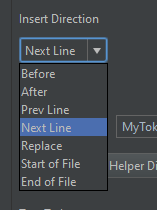
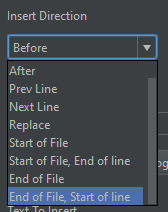
v0.4 part 4

diff --git a/_layouts/tutorial.html b/_layouts/tutorial.html
@@ -1,25 +1,13 @@
 ---
 layout: default
 ---
-{% assign tutorials = site.tutorials | where_exp:"item", "item.lang == page.lang" | sort: 'order' %}
-{% assign nextOrder = page.order | plus: 1 %}
-{% assign prevOrder = page.order | minus: 1 %}
-{% assign nextTutorial = tutorials | where:"order", nextOrder | first %}
-{% assign prevTutorial = tutorials | where:"order", prevOrder | first %}
+
 <h1>{{ page.title }}</h1>
 
 {{ content }}
 
-<br><hr>
-<!-- Предыдущий -->
+
 <div><div id="footerNavigation"div>
-{% if prevTutorial %}
-	<a class="prevUrl" href="{{ site.baseurl }}{{ prevTutorial.url }}">{{ site.data.i18n.prev[page.lang] }}</a> 
-{% endif %}
 <!-- Содержание -->
-<a href="{{ site.baseurl }}/{{ page.lang }}">{{ site.data.i18n.tableOfContents[page.lang] }}</a>
-<!-- Следующий -->
-{% if nextTutorial %}
-	<a class="nextUrl" href="{{ site.baseurl }}{{ nextTutorial.url }}">{{ site.data.i18n.next[page.lang] }}</a>
-{% endif %}
+<a href="{{ site.baseurl }}/{{ page.lang }}">{{ site.data.i18n.back[page.lang] }}</a>
 </div></div>

diff --git a/_layouts/other.html b/_layouts/other.html
@@ -2,7 +2,7 @@
 layout: default
 ---
 
-<h2>{{ page.title }}</h2>
+<h1>{{ page.title }}</h1>
 
 {{ content }}
 

diff --git a/_tutorials/ru/impex.md b/_tutorials/ru/impex.md
@@ -1,7 +1,7 @@
 ---
 title: Импорт и Экспорт
 lang: ru
-order: 11
+navigation: impex
 ---
 
 ### Импорт <a name="import"></a>
@@ -26,6 +26,16 @@ order: 11
 ### Пример применения
 Допустим, вы работаете в команде и хотите поделиться своими шаблонами. Для этого вам нужно расшарить какую-нибудь папку, в которую вы будете экспортировать шаблоны. Это можно сделать с помощью сторонних сервисов, например [Dropbox][1]. После этого ваши коллеги смогут указать эту папку для АвтоИмпорта. После добавления новых или редактирования старых шаблонов нужно будет уведомлять остальных, чтобы они обновились.
 
+### Schemes <a name="schemes"></a>
+
+* если текущая схема **Default**, тогда импорт будет работать как обычно.
+* если текущая схема **Project**, тогда появится следующий диалог:
+
+![where_to_save_dialog]({{ site.baseurl }}/images/tutorial/where_to_save_dialog.png){: .image}
+
+В зависимости от вашего выбора [Источник FileTemplate][3] для импортируемых шаблонов будет изменен на **DEFAULT_ONLY** или **PROJECT_ONLY**.
+
 
 [1]: {{ site.data.links.dropbox }}
 [2]: {{ site.baseurl}}{{ site.data.links.tutorial_write_rules[page.lang] }}
+[3]: {{ site.baseurl}}{{ site.data.links.tutorial_file_template_source[page.lang] }}

diff --git a/_other/ru/changelog.md b/_other/ru/changelog.md
@@ -5,9 +5,24 @@ layout: other
 css: tutorials.css
 ---
 
-### v0.1.0
+### v0.4.0
 
-Первая версия.
+* Добавлены фичи для команды
+<br> **a)** Поддержка Project шаблонов. ([Подробнее][4])
+<br> **b)** [АвтоИмпорт][3]
+* Добавлены опции для [Text Injection][1]:
+<br> **a)** Start of File, End of line
+<br> **b)** End of File, Start of line
+* Добавлена опция **DIR_PARENT** для [CustomPath][5]. (Возвращает родительскую папку).
+* Теперь можно **изменять** FileTemplate у элемента. Раньше нужно было удалять и выбирать нужный при создании.
+* фиксы мелких багов.
+
+### v0.3.0
+
+* Добавлен [Text Injection][1]
+* Немного переделаны [Global Variables][2]
+* Правки в UI.
+
 
 ### v0.2.0
 
@@ -20,12 +35,14 @@ css: tutorials.css
 * Write Rules.
 * Правки в UI.
 
-### v0.3.0
 
-* Добавлен [Text Injection][1]
-* Немного переделаны [Global Variables][2]
-* Правки в UI.
+### v0.1.0
+
+Первая версия.
 
 
 [1]: {{ site.baseurl}}{{ site.data.links.tutorial_text_injection[page.lang] }}
 [2]: {{ site.baseurl}}{{ site.data.links.tutorial_global_variables[page.lang] }}
+[3]: {{ site.baseurl}}{{ site.data.links.tutorial_impex[page.lang] }}#autoImport
+[4]: {{ site.baseurl}}{{ site.data.links.tutorial_file_template_source[page.lang] }}
+[5]: {{ site.baseurl}}{{ site.data.links.tutorial_custom_path[page.lang] }}

diff --git a/_other/en/changelog.md b/_other/en/changelog.md
@@ -7,7 +7,15 @@ css: tutorials.css
 
 ### v0.4.0
 
-blabla
+* Features for team
+<br> **a)** Support Project templates. ([Details][4])
+<br> **b)** [AutoImport][3]
+* Added options for [Text Injection][1]:
+<br> **a)** Start of File, End of line
+<br> **b)** End of File, Start of line
+* Added option **DIR_PARENT** for [CustomPath][5]. (Return parent directory).
+* Now you can **change** FileTemplate of **element**.
+* fixed little bugs.
 
 ### v0.3.0
 
@@ -32,3 +40,6 @@ Initial version.
 
 [1]: {{ site.baseurl}}{{ site.data.links.tutorial_text_injection[page.lang] }}
 [2]: {{ site.baseurl}}{{ site.data.links.tutorial_global_variables[page.lang] }}
+[3]: {{ site.baseurl}}{{ site.data.links.tutorial_impex[page.lang] }}#autoImport
+[4]: {{ site.baseurl}}{{ site.data.links.tutorial_file_template_source[page.lang] }}
+[5]: {{ site.baseurl}}{{ site.data.links.tutorial_custom_path[page.lang] }}

diff --git a/ru.md b/ru.md
@@ -8,9 +8,9 @@ lang: ru
 Package Templates это плагин реализующий Multiple [File Templates][1]. Он позволяет создавать шаблоны, состоящие из директорий и File Tamplates.
 
 ### Подробнее:
-{% assign listTutorials = site.tutorials | where_exp:"item", "item.lang == page.lang" | sort: 'order' %}
-{% for tutorial in listTutorials %}
-* [{{ tutorial.title }}]({{ site.baseurl }}{{ tutorial.url }}){% endfor %}
+{% assign listTutorials = site.tutorials | where_exp:"item", "item.lang == page.lang"%}
+{% for nav_tutorial in site.data.navigation.tutorials %}{% for tutorial in listTutorials %}{% if nav_tutorial == tutorial.navigation %}
+* [{{ tutorial.title }}]({{ site.baseurl }}{{ tutorial.url }}){% endif %}{% endfor %}{% endfor %}
 
 ### История изменений
 [Изменения][8]

diff --git a/_tutorials/en/text_injection.md b/_tutorials/en/text_injection.md
@@ -1,7 +1,7 @@
 ---
 title: Text Injection
 lang: en
-order: 7
+navigation: text_injection
 ---
 
 Text Injection allow you to insert text to file.
@@ -21,7 +21,17 @@ Text Injection allow you to insert text to file.
 
 ![inject_direction_dropdown]({{ site.baseurl }}/images/tutorial/inject_direction_dropdown.png){: .imageFragment}
 
-Example:
+**Example:**
+
+* **BEFORE** = `Before`
+* **AFTER** = `After`
+* **PREV_LINE** = `Prev Line`
+* **NEXT_LINE** = `Next Line`
+* **REPLACE** = `Replace`
+* **START_OF_FILE** = `Start of File`
+* **SOF_END_OF_LINE** = `Start of File, End of line`
+* **END_OF_FILE** = `End of File`
+* **EOF_START_OF_LINE** = `End of File, Start of line`
 
 ![injection_directions_example]({{ site.baseurl }}/images/tutorial/injection_directions_example.png){: .imageFragment}
 

diff --git a/en.md b/en.md
@@ -10,9 +10,9 @@ lang: en
 Package Templates make Multiple [File Templates][1] possible. Plugin let you create **directories** and **File Templates** in one action.
 
 ### Tutorials:
-{% assign listTutorials = site.tutorials | where_exp:"item", "item.lang == page.lang" | sort: 'order' %}
-{% for tutorial in listTutorials %}
-* [{{ tutorial.title }}]({{ site.baseurl }}{{ tutorial.url }}){% endfor %}
+{% assign listTutorials = site.tutorials | where_exp:"item", "item.lang == page.lang"%}
+{% for nav_tutorial in site.data.navigation.tutorials %}{% for tutorial in listTutorials %}{% if nav_tutorial == tutorial.navigation %}
+* [{{ tutorial.title }}]({{ site.baseurl }}{{ tutorial.url }}){% endif %}{% endfor %}{% endfor %}
 
 ### Changelog
 [Changelog][8]

diff --git a/_tutorials/ru/custom_path.md b/_tutorials/ru/custom_path.md
@@ -1,7 +1,7 @@
 ---
 title: Настраиваемый путь (Custom Path)
 lang: ru
-order: 9
+navigation: custom_path
 ---
 
 Данная фича позволяет искать директории и файлы. Каждому элементу шаблона можно назначить **CustomPath**. Найденная директория будет родителем для элемента шаблона(Если **CustomPath** ищет файл, то элемент будет создан в той же директории, что и найденный файл).

diff --git a/_tutorials/en/custom_path.md b/_tutorials/en/custom_path.md
@@ -1,7 +1,7 @@
 ---
 title: Custom Path
 lang: en
-order: 9
+navigation: custom_path
 ---
 
 This feature allows you to search for directories and files. Each element of the template can use **CustomPath**. The found directory will be the parent for the template element (If **CustomPath** searches for the file then the item will be created in the same directory with file).

diff --git a/_tutorials/ru/presettings.md b/_tutorials/ru/presettings.md
@@ -1,7 +1,7 @@
 ---
 title: Преднастройки
 lang: ru
-order: 4
+navigation: presettings
 ---
 
 После выбора шаблона из списка появляется диалог с преднастройками. Окно похоже на **Редактирование шаблона** только доступно меньше опций:
